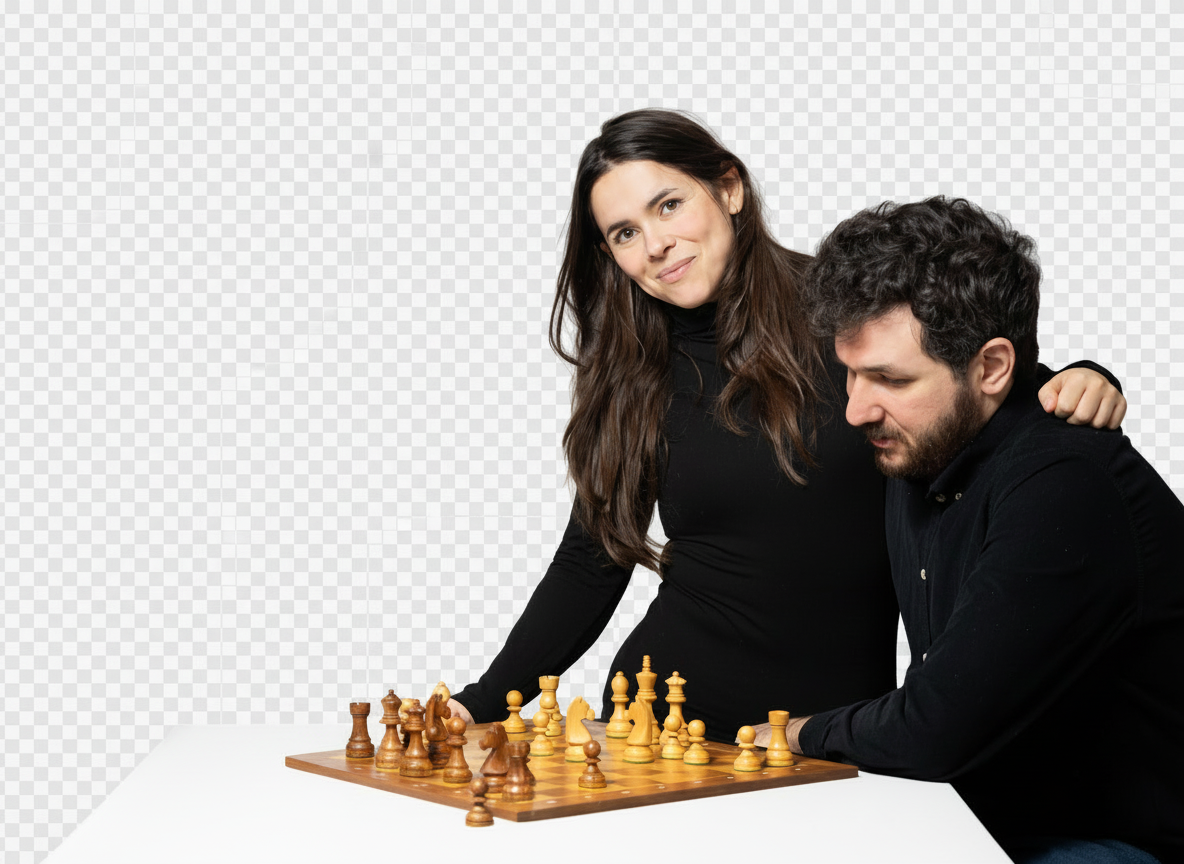
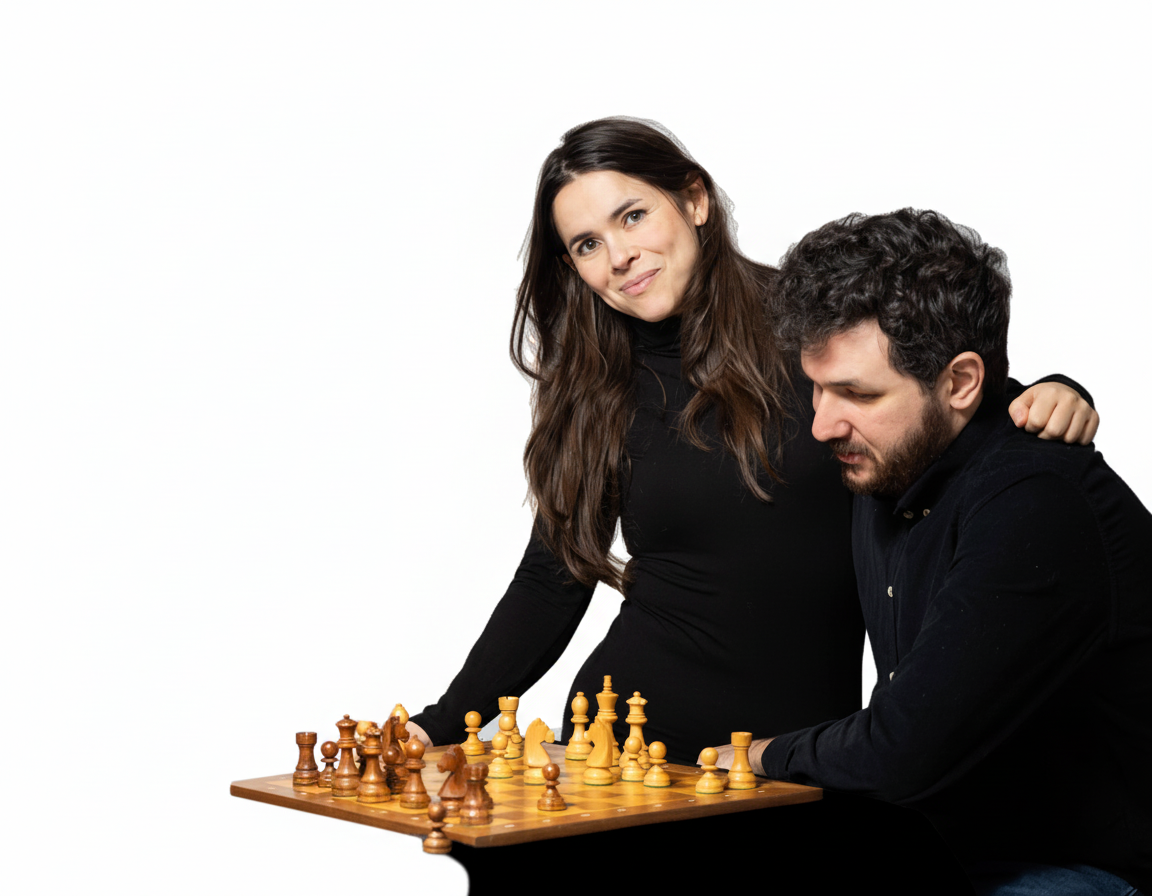
Changes

diff --git a/src/pages/Schack.tsx b/src/pages/Schack.tsx
@@ -2,6 +2,7 @@ import Header from "@/components/Header";
 import Footer from "@/components/Footer";
 import { Button } from "@/components/ui/button";
 import { Link } from "react-router-dom";
+import chessImage from "@/assets/chess-angelina.png";
 
 const Schack = () => {
   return (
@@ -25,6 +26,13 @@ const Schack = () => {
                 </blockquote>
 
                 <div className="prose prose-lg max-w-none text-muted-foreground space-y-6">
+                  {/* Floating image */}
+                  <img 
+                    src={chessImage} 
+                    alt="Angelina Fransson spelar schack" 
+                    className="md:float-right md:ml-6 md:mb-4 md:w-64 lg:w-80 w-full h-auto rounded-xl mb-6"
+                  />
+
                   <p className="text-lg leading-relaxed">
                     Min schackhistoria började när jag första gången såg min far sitta med ett bräde och en schackbok när jag knappt kunde gå. Många av barndomens timmar spenderades vid brädet, ibland med en bok, ibland med far i de småländska skogarna.
                   </p>
